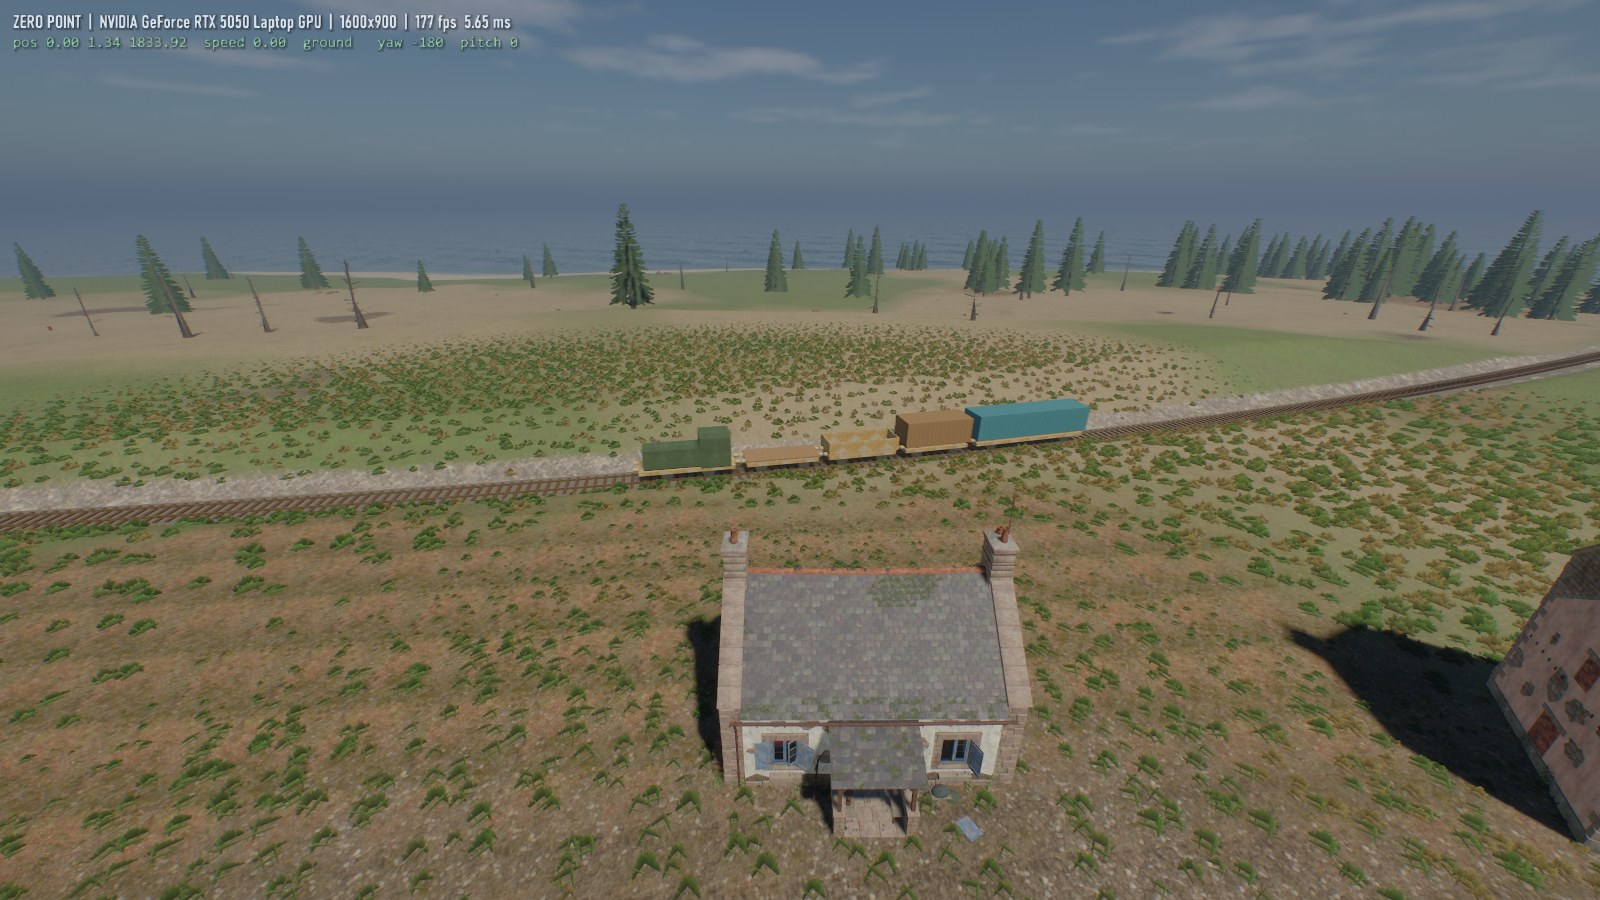
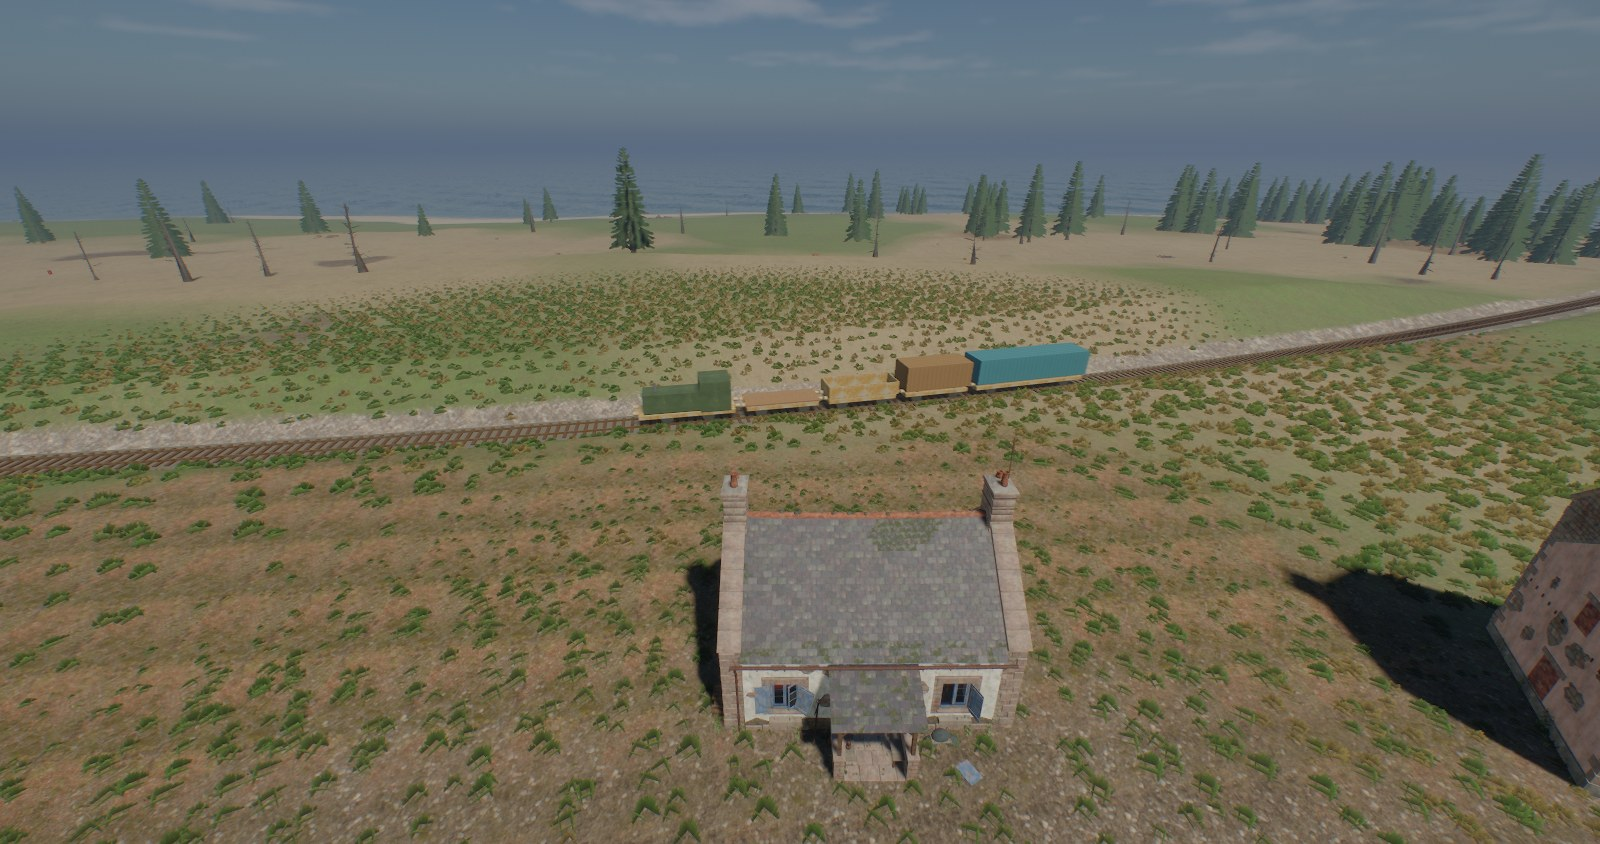
Readme: more screenshots

diff --git a/README.md b/README.md
@@ -12,9 +12,12 @@ You wake up on the shore of a large abandoned island with nothing but your hands
 
 | | |
 |---|---|
+| ![The main street of the ruined town](docs/screenshots/village_street.jpg) | ![Inside a fir forest](docs/screenshots/fir_forest.jpg) |
+| ![A crafted scrap rifle on the beach](docs/screenshots/scrap_rifle.jpg) | ![Inside a player built base](docs/screenshots/base_interior.jpg) |
+| ![The hand drawn island map](docs/screenshots/ink_map.jpg) | ![The view from the summit](docs/screenshots/summit_view.jpg) |
 | ![On the flat wagon behind the locomotive](docs/screenshots/train_ride_day.jpg) | ![A railway stop on the north coast](docs/screenshots/railway_stop.jpg) |
 
-More screenshots will be added as the world fills in.
+The train in these shots is still a set of placeholder boxes. More screenshots will be added as the world fills in.
 
 ## What is in the game so far
 
